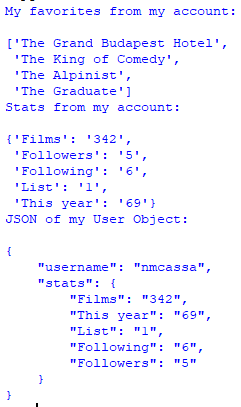
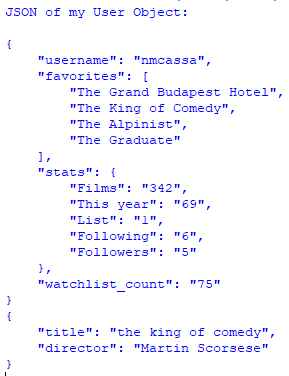
refactor + movie
movie class
watchlist for user

diff --git a/user.py b/user.py
@@ -1,13 +1,64 @@
 import json
 from json import JSONEncoder
+import re
+import requests
+from bs4 import BeautifulSoup
 
 class User:
-    def __init__(self, username, stats):
+    def __init__(self, username):
         self.username = username
-        self.stats = stats
+        self.favorites = self.user_favorites(username)
+        self.stats = self.user_stats(username)
+        self.watchlist_count = self.user_watchlist(username)
 
     def jsonify(self):
         return json.dumps(self, indent=4,cls=Encoder)
+
+    def get_parsed_page(self, url):
+        # This fixes a blocked by cloudflare error i've encountered
+        headers = {
+            "referer": "https://liquipedia.net/rocketleague/Portal:Statistics",
+            "user-agent": "Mozilla/5.0 (Windows NT 10.0; Win64; x64)"
+        }
+
+        return BeautifulSoup(requests.get(url, headers=headers).text, "lxml")
+
+    def user_favorites(self, user):
+        page = self.get_parsed_page("https://letterboxd.com/" + user + "/")
+        
+        section = page.find_all("section", {"id": ["favourites"], })
+        movies = section[0].findChildren("div")
+        names = []
+
+        for div in movies:
+            img = div.find("img")
+            names.append(img['alt'])
+            
+        return names
+
+    def user_stats(self, user):
+        page = self.get_parsed_page("https://letterboxd.com/" + user + "/")
+        span = []
+        stats = {}
+
+        header = page.find_all("h4", {"class": ["profile-statistic"], })
+
+        for item in header:
+            span.append(item.findChildren("span"))
+
+        for item in span:
+            stats[item[1].text.replace(u'\xa0', ' ')] = item[0].text
+
+        return stats
+
+    def user_watchlist(self, user):
+        page = self.get_parsed_page("https://letterboxd.com/" + user + "/watchlist/")
+
+        count = page.find_all("span", {"class": ["watchlist-count"], })
+
+        ret = count[0].text.split('\xa0')
+
+        return ret[0]
 
 class Encoder(JSONEncoder):
     def default(self, o):

diff --git a/api.py b/api.py
@@ -1,56 +1,16 @@
-import re
-import requests
-from bs4 import BeautifulSoup
-from user import *
-
-def get_parsed_page(url):
-    # This fixes a blocked by cloudflare error i've encountered
-    headers = {
-        "referer": "https://liquipedia.net/rocketleague/Portal:Statistics",
-        "user-agent": "Mozilla/5.0 (Windows NT 10.0; Win64; x64)"
-    }
-
-    return BeautifulSoup(requests.get(url, headers=headers).text, "lxml")
-
-def user_favorites(user):
-    page = get_parsed_page("https://letterboxd.com/" + user + "/")
-    
-    section = page.find_all("section", {"id": ["favourites"], })
-    movies = section[0].findChildren("div")
-    names = []
-
-    for div in movies:
-        img = div.find("img")
-        names.append(img['alt'])
-        
-    return names
-
-def user_stats(user):
-    page = get_parsed_page("https://letterboxd.com/" + user + "/")
-    span = []
-    stats = {}
-
-    header = page.find_all("h4", {"class": ["profile-statistic"], })
-
-    for item in header:
-        span.append(item.findChildren("span"))
-
-    for item in span:
-        stats[item[1].text.replace(u'\xa0', ' ')] = item[0].text
-
-    return stats
+from user import User
+from movie import Movie 
 
 if __name__ == "__main__":
     import pprint
     pp = pprint.PrettyPrinter()
 
-    print("My favorites from my account: \n")
-    pp.pprint(user_favorites("nmcassa"))
-    
-    print("Stats from my account:\n")
-    pp.pprint(user_stats("nmcassa"))
-
-    nick = User("nmcassa", user_stats("nmcassa"))
+    nick = User("nmcassa")
     print("JSON of my User Object:\n")
     print(nick.jsonify())
+
+    king = Movie("the king of comedy")
+    print(king.jsonify())
+    
+
     

diff --git a/movie.py b/movie.py
@@ -1,0 +1,36 @@
+import json
+import re
+import requests
+from bs4 import BeautifulSoup
+from json import JSONEncoder
+
+class Movie:
+    def __init__(self, title):
+        self.title = title
+        self.director = self.movie_director(title)
+
+    def jsonify(self):
+        return json.dumps(self, indent=4,cls=Encoder)
+
+    def get_parsed_page(self, url):
+        # This fixes a blocked by cloudflare error i've encountered
+        headers = {
+            "referer": "https://liquipedia.net/rocketleague/Portal:Statistics",
+            "user-agent": "Mozilla/5.0 (Windows NT 10.0; Win64; x64)"
+        }
+
+        return BeautifulSoup(requests.get(url, headers=headers).text, "lxml")
+
+    def movie_director(self, movie):
+        movie = movie.replace(' ', '-')
+        page = self.get_parsed_page("https://letterboxd.com/film/" + movie + "/")
+
+        crew = page.find_all("span", text = 'Director')[0].parent.parent
+        director = crew.findChildren("a")
+        director = director[0].text
+
+        return director
+
+class Encoder(JSONEncoder):
+    def default(self, o):
+        return o.__dict__
